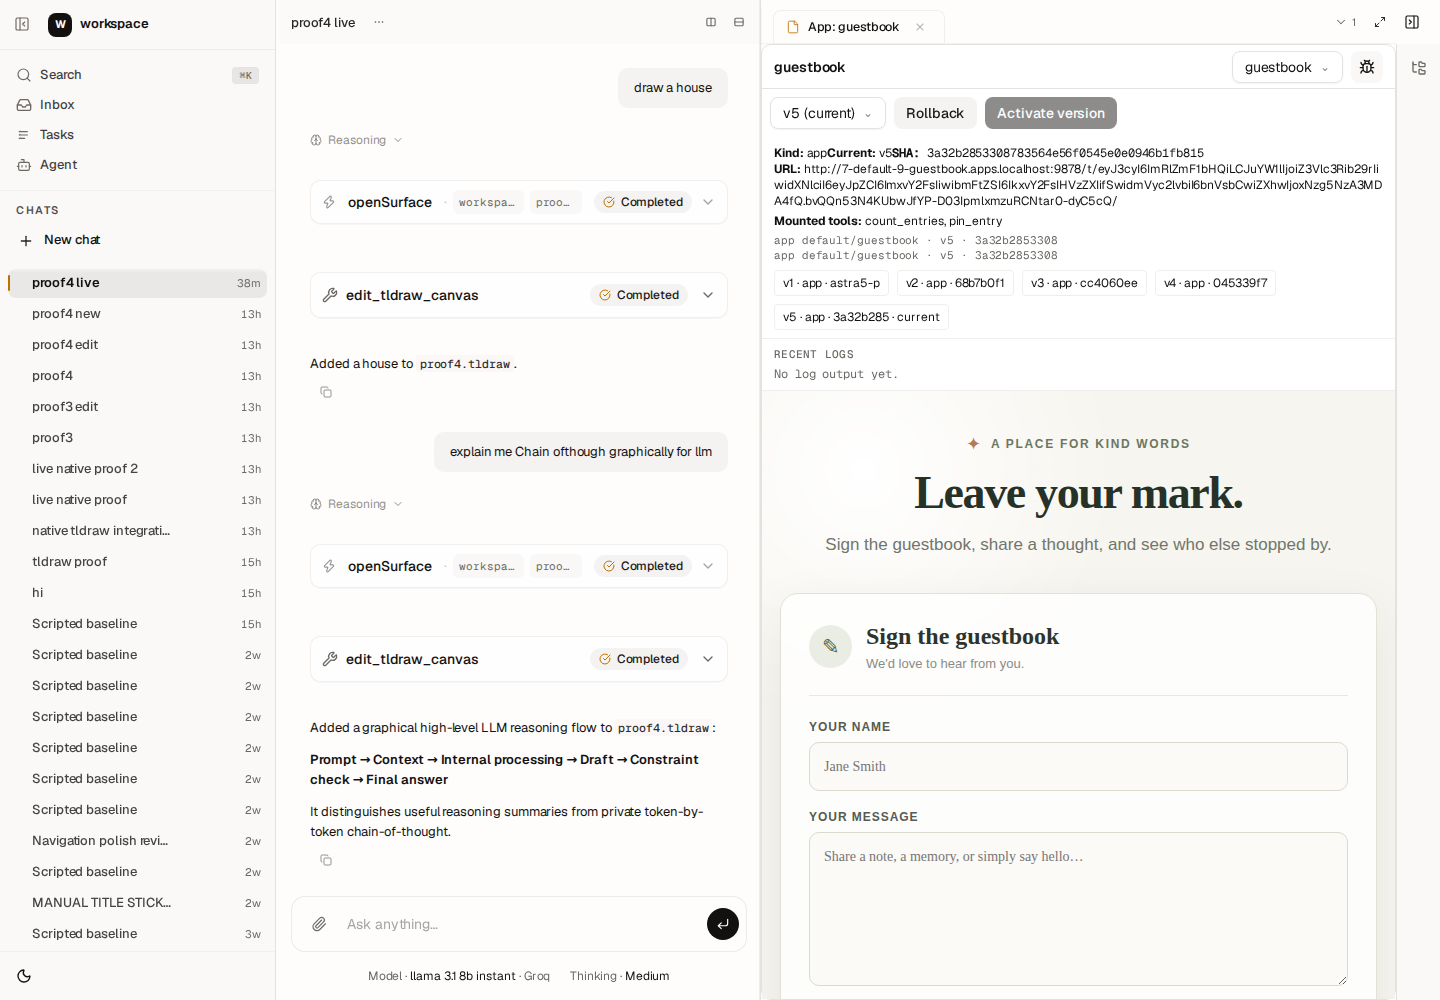
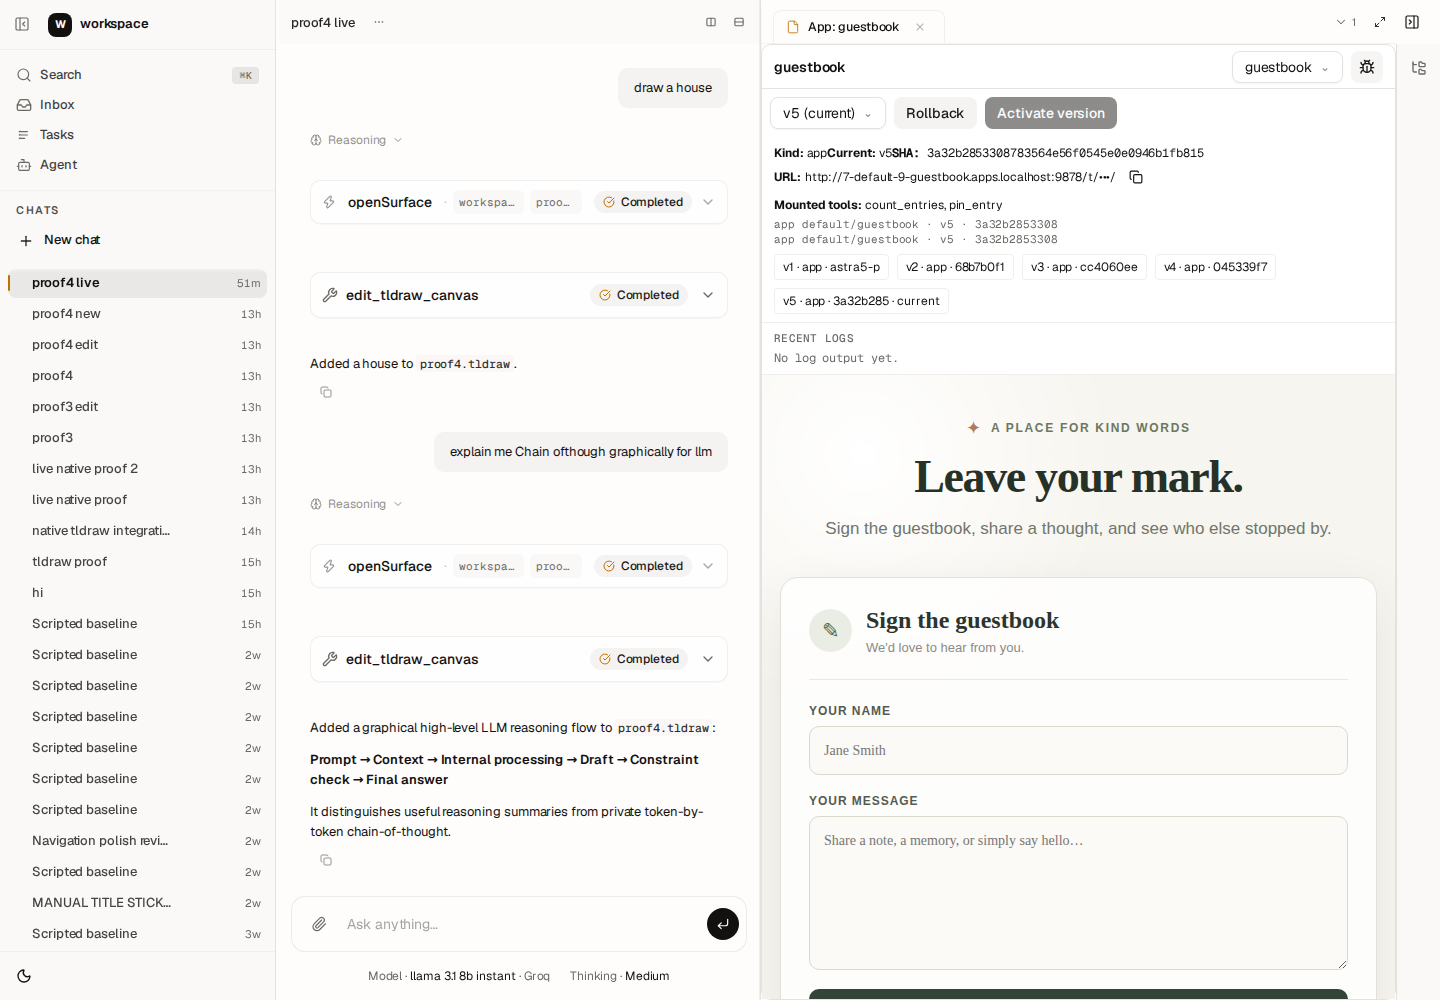
fix(app-runner): mask signed token in Apps panel debug URL
The debug section shows the app's serving URL, which carries a
short-lived signed authorization token in its path (/t/<token>/...).
Displaying it in full let anyone who saw a screenshot or shared screen
use that token until it expired.

Mask the token in the displayed text (origin and trailing path stay
visible), and add a copy button labelled as copying the credentialed
link so copying the real URL remains an explicit user action. The
token still necessarily appears in the DOM via the iframe src — that
is documented, not hidden.

diff --git a/plugins/app-runner/src/front/AppRunnerPane.tsx b/plugins/app-runner/src/front/AppRunnerPane.tsx
@@ -19,7 +19,7 @@ import {
   Spinner,
 } from "@hachej/boring-ui-kit"
 import type { PaneProps } from "@hachej/boring-workspace/plugin"
-import { Bug } from "lucide-react"
+import { Bug, Check, Copy } from "lucide-react"
 import { useCallback, useEffect, useMemo, useState } from "react"
 import {
   activateAppVersion,
@@ -29,11 +29,53 @@ import {
   fetchApps,
   rollbackApp,
 } from "./apiClient"
+import { copyTextToClipboard } from "./clipboard"
 import type { AppRunnerLogsResponse, AppRunnerRecordWithLinks, AppRunnerVersionWithPreview } from "../shared/types"
 
 const LOG_LINES_SHOWN = 20
 const ERROR_LINES_SHOWN = 10
 const DEBUG_VISIBLE_STORAGE_KEY = "boring:app-runner:debug-visible"
+const REDACTED_TOKEN = "•••"
+
+/**
+ * The serving URL carries a short-lived signed authorization token in its
+ * path (`/t/<token>/...`) — see `signedServingUrl` in `appRunnerClient.ts`.
+ * Displaying it in full lets anyone who sees a screenshot or shared screen
+ * use that token until it expires (~3 minutes, but still a live credential).
+ * This only redacts the *displayed text*; the token still necessarily
+ * appears in the DOM via the iframe's `src` attribute, since the browser
+ * must send it to load the app. That's an unavoidable property of using a
+ * signed URL for iframe auth, not something this masking can or should hide
+ * — see `.artifacts/HOST-RUN.md` for the full note. Masking only reduces
+ * shoulder-surfing/screenshot leakage of the debug panel's own text.
+ */
+function maskSignedAppUrl(rawUrl: string): string {
+  return rawUrl.replace(/\/t\/[^/]+\//, `/t/${REDACTED_TOKEN}/`)
+}
+
+function CopySignedUrlButton({ url }: { url: string }) {
+  const [copied, setCopied] = useState(false)
+
+  const handleCopy = useCallback(async () => {
+    const ok = await copyTextToClipboard(url)
+    if (ok) {
+      setCopied(true)
+      window.setTimeout(() => setCopied(false), 1500)
+    }
+  }, [url])
+
+  return (
+    <IconButton
+      aria-label="Copy credentialed app URL"
+      title="Copy the full app URL, including its signed access token"
+      data-testid="app-runner-copy-url"
+      variant="ghost"
+      onClick={handleCopy}
+    >
+      {copied ? <Check className="size-3.5" /> : <Copy className="size-3.5" />}
+    </IconButton>
+  )
+}
 
 export interface AppRunnerPaneParams {
   appName?: string
@@ -293,7 +335,10 @@ export function AppRunnerPane({ params }: PaneProps<AppRunnerPaneParams>) {
                   <span><strong>Kind:</strong> {currentApp.kind}</span>
                   <span><strong>Current:</strong> v{currentApp.version}</span>
                   <span className="font-mono"><strong className="font-sans">SHA:</strong> {currentApp.sha ?? "not recorded"}</span>
-                  <span className="break-all"><strong>URL:</strong> {currentApp.appUrl}</span>
+                  <span className="flex items-center gap-1 break-all">
+                    <strong>URL:</strong> <span data-testid="app-runner-masked-url">{maskSignedAppUrl(currentApp.appUrl)}</span>
+                    <CopySignedUrlButton url={currentApp.appUrl} />
+                  </span>
                 </div>
                 {mountedToolNames.length > 0 && (
                   <div className="mt-1">

diff --git a/plugins/app-runner/src/front/__tests__/AppRunnerPane.logs.test.tsx b/plugins/app-runner/src/front/__tests__/AppRunnerPane.logs.test.tsx
@@ -4,6 +4,8 @@ import type { PaneProps } from "@hachej/boring-workspace/plugin"
 import { AppRunnerPane, type AppRunnerPaneParams } from "../AppRunnerPane"
 
 const DEBUG_VISIBLE_STORAGE_KEY = "boring:app-runner:debug-visible"
+const SIGNED_TOKEN = "eyJhbGciOiJIUzI1NiJ9.eyJ3cyI6IndzLTEifQ.deadbeefsignaturevalue"
+const SIGNED_APP_URL = `http://8-ws--1-5-myapp.apps.localhost:9878/t/${SIGNED_TOKEN}/`
 
 function jsonResponse(body: unknown): Response {
   return new Response(JSON.stringify(body), { status: 200, headers: { "content-type": "application/json" } })
@@ -28,7 +30,7 @@ function stubHubFetch() {
           url: "x",
           updatedAt: "now",
           appId: "ws-1--myapp",
-          appUrl: "/api/v1/plugins/app-runner/open/myapp/",
+          appUrl: SIGNED_APP_URL,
           toolProvenance: [{ kind: "app", address: "myapp", version: 2, sha: "abcdef123456789012" }],
           toolManifest: { tools: [{ name: "count_entries", route: "/count" }, { name: "pin_entry", route: "/pin" }] },
         }],
@@ -107,5 +109,46 @@ describe("AppRunnerPane debug toggle", () => {
 
     fireEvent.click(screen.getByRole("button", { name: "Hide app debug details" }))
     expect(localStorage.getItem(DEBUG_VISIBLE_STORAGE_KEY)).toBeNull()
+  })
+
+  it("masks the signed token in the debug URL text while the iframe src still carries it", async () => {
+    stubHubFetch()
+
+    render(<AppRunnerPane {...paneProps({ appName: "myapp" })} />)
+    await screen.findByTitle("myapp preview")
+
+    fireEvent.click(screen.getByRole("button", { name: "Show app debug details" }))
+    await screen.findByTestId("app-runner-metadata")
+
+    // The debug panel's own text never contains the raw token: shoulder
+    // surfing or a screenshot of this pane must not leak a usable credential.
+    const metadata = screen.getByTestId("app-runner-metadata")
+    expect(metadata.textContent).not.toContain(SIGNED_TOKEN)
+    expect(screen.getByTestId("app-runner-masked-url").textContent).toMatch(/\/t\/•+\//)
+
+    // The token still necessarily appears in the DOM via the iframe src —
+    // the browser must send it to load the app. Masking the displayed text
+    // does not and cannot hide that; see the comment above maskSignedAppUrl.
+    expect(screen.getByTitle("myapp preview")).toHaveAttribute("src", SIGNED_APP_URL)
+  })
+
+  it("copies the real, credentialed URL (not the masked text) when the copy action is used", async () => {
+    stubHubFetch()
+    const writeText = vi.fn().mockResolvedValue(undefined)
+    Object.defineProperty(navigator, "clipboard", {
+      configurable: true,
+      value: { writeText },
+    })
+
+    render(<AppRunnerPane {...paneProps({ appName: "myapp" })} />)
+    await screen.findByTitle("myapp preview")
+    fireEvent.click(screen.getByRole("button", { name: "Show app debug details" }))
+    await screen.findByTestId("app-runner-metadata")
+
+    fireEvent.click(screen.getByTestId("app-runner-copy-url"))
+
+    await vi.waitFor(() => expect(writeText).toHaveBeenCalledWith(SIGNED_APP_URL))
+
+    Object.defineProperty(navigator, "clipboard", { configurable: true, value: undefined })
   })
 })

diff --git a/plugins/app-runner/src/front/clipboard.ts b/plugins/app-runner/src/front/clipboard.ts
@@ -1,0 +1,34 @@
+/**
+ * Copy `text` to the clipboard. Falls back to a hidden-textarea +
+ * `execCommand` when `navigator.clipboard` is unavailable (non-secure
+ * contexts, older browsers, etc.). Resolves to whether the copy succeeded;
+ * never throws, so callers can surface a best-effort UI state.
+ */
+export async function copyTextToClipboard(text: string): Promise<boolean> {
+  if (typeof navigator !== "undefined" && navigator.clipboard?.writeText) {
+    try {
+      await navigator.clipboard.writeText(text)
+      return true
+    } catch {
+      // Some browsers reject when the document isn't focused — fall through.
+    }
+  }
+  if (typeof document === "undefined") return false
+  const textarea = document.createElement("textarea")
+  textarea.value = text
+  textarea.setAttribute("readonly", "")
+  textarea.style.position = "fixed"
+  textarea.style.top = "-9999px"
+  textarea.style.left = "-9999px"
+  textarea.style.opacity = "0"
+  document.body.appendChild(textarea)
+  let ok = false
+  try {
+    textarea.focus()
+    textarea.select()
+    ok = !!document.execCommand?.("copy")
+  } finally {
+    document.body.removeChild(textarea)
+  }
+  return ok
+}

diff --git a/.artifacts/HOST-RUN.md b/.artifacts/HOST-RUN.md
@@ -90,3 +90,78 @@ Verification for this change:
   invariants, workspace plugin invariants, alignment invariants, skill
   digests all green).
 
+## Mask the signed token in the debug URL (2026-09-18)
+
+The debug section added above shows `currentApp.appUrl`, which is a
+`signedServingUrl` from the hub carrying a short-lived signed authorization
+token in its path (`/t/<token>/...`, ~3 minute expiry). Displaying it in
+full made the token legible in a screenshot or shared screen — a usable
+credential until it expired. See `.artifacts/panel-debug.png` from the prior
+round for the leaked example.
+
+Changes:
+
+- `plugins/app-runner/src/front/AppRunnerPane.tsx`: added `maskSignedAppUrl()`,
+  which redacts only the `/t/<token>/` path segment (`/t/•••/`), keeping the
+  origin and any trailing path visible — the useful parts for debugging.
+  The debug panel now renders the masked text
+  (`data-testid="app-runner-masked-url"`) plus a `CopySignedUrlButton`
+  (`data-testid="app-runner-copy-url"`, `aria-label="Copy credentialed app
+  URL"`) that copies the *real* URL via an explicit click — an intentional
+  user action, unlike passive display.
+- `plugins/app-runner/src/front/clipboard.ts`: new self-contained
+  `copyTextToClipboard()` helper (navigator.clipboard with an
+  execCommand/textarea fallback), mirroring the existing pattern in
+  `packages/workspace/.../file-tree/clipboard.ts` and
+  `packages/agent/src/front/clipboard.ts`. No new dependency — the plugin
+  only depends on `@hachej/boring-ui-kit` and `lucide-react`, so the helper
+  is local rather than importing across package boundaries.
+- Tests added to `AppRunnerPane.logs.test.tsx`: one asserts the debug
+  panel's `textContent` never contains the raw token while the iframe's
+  `src` attribute still carries the full signed URL; another asserts
+  clicking the copy button calls `navigator.clipboard.writeText` with the
+  full, unmasked URL.
+
+**DOM leak is inherent, not fixed by this change.** The iframe must be given
+the real signed URL as its `src` to load the app (`sandbox="allow-scripts
+allow-forms"`, no cookies), so the token is present in the DOM by
+construction — visible to anyone who opens devtools or inspects the page.
+Masking the *displayed debug text* reduces shoulder-surfing and screenshot
+leakage of the debug panel; it does not and cannot hide the token from DOM
+inspection, and no attempt was made to do so. This is documented inline
+above `maskSignedAppUrl()` in `AppRunnerPane.tsx` as well.
+
+Hub-side (`boring-hub`, branch `demo-v4`, worktree at its repo root — commit
+made there separately, not pushed): grepped `app-runner/index.js` and
+`scripts/apps-origin.mjs` for the signed URL/token reaching a log, error
+message, or telemetry. `index.js`'s `signed-url` action and its serving-token
+verification path never echo the token back in error text. Found one real
+leak: `scripts/apps-origin.mjs`'s top-level proxy `catch` block returned
+`error.message` verbatim in a `502` response body — Node's `fetch failed`
+errors can embed the request URL, which carries the token both as the
+public `/t/<token>/` path segment and as the `t=<token>` query param
+forwarded upstream (`upstreamUrl.searchParams.set("t", ...)`). Added
+`redactSignedUrl()` to strip both forms before the message reaches the
+client. `node --check` passed on the edited file (no project-level test/lint
+harness was run for this ad hoc fix in the hub worktree).
+
+Re-capture: rebuilt the plugin (`pnpm --filter @hachej/boring-app-runner
+build`) so the still-running workspace-playground (`:5202`, hub `:9877`,
+apps-serving `:9878` — same processes as the Astra round 9 run above) picked
+up the new front bundle, then re-ran the existing
+`.artifacts/panel-debug-toggle.mjs` Playwright script unmodified. Its
+console output for the debug step confirmed:
+`URL:\nhttp://7-default-9-guestbook.apps.localhost:9878/t/•••/` (masked) with
+`sandbox: "allow-scripts allow-forms"` and `frameStillVisible: true`. This
+overwrote `.artifacts/panel-debug.png` and `.artifacts/panel-app-only.png`
+in place with the masked view.
+
+Verification for this change:
+
+- `pnpm --filter @hachej/boring-app-runner test`: **PASS**, 11 files / 52
+  tests (2 new tests added; the rest are pre-existing, all green).
+- `pnpm --filter @hachej/boring-app-runner typecheck`: **PASS**.
+- `pnpm lint:invariants`: **PASS**.
+- `.artifacts/panel-debug.png`: re-captured against the live host, token
+  masked, guestbook app still visible underneath.
+
